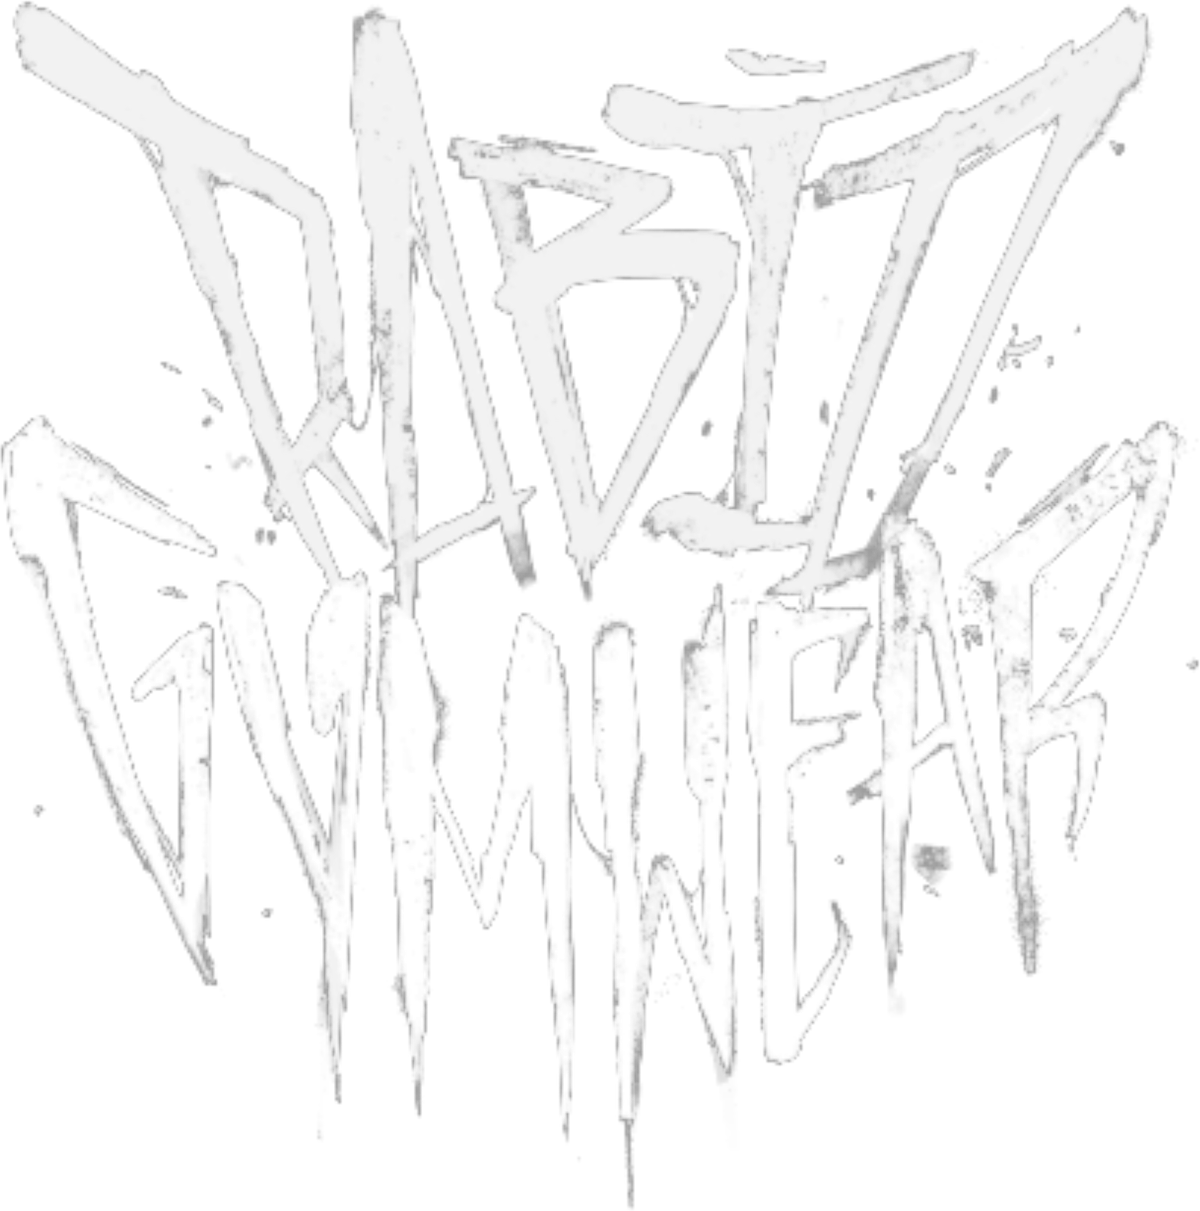
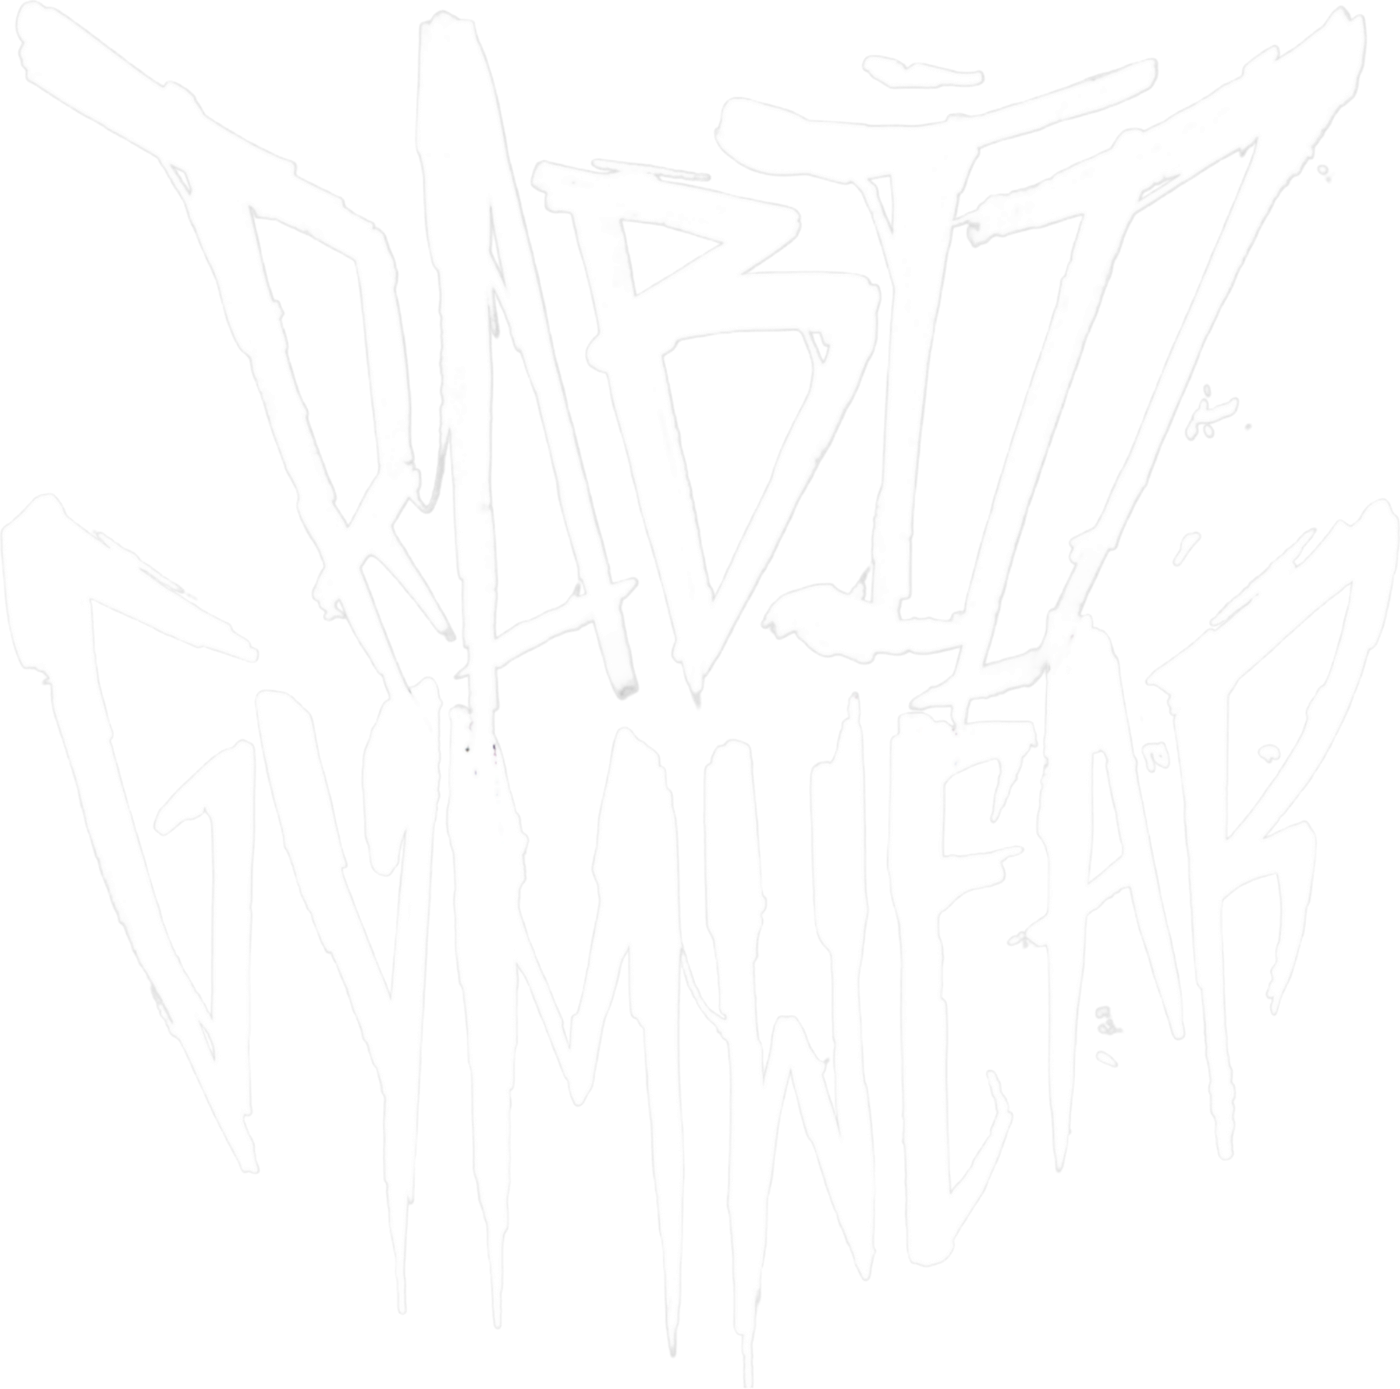
Replace the wordmark with the clean-edged master
The supplied file already carried a proper alpha channel, so it needed
trimming to its ink rather than keying: the layout should be driven by
the artwork, not by whatever canvas it was exported on. Capped at 1400px
on the long edge, since nothing paints it above a few hundred points.

The trimmed ink is 1400x1389 against the old 1200x1211, so the heights
that go with it move a point or two to match. They are set explicitly
rather than derived, because an Image takes the intrinsic pixel height of
its source the moment one is missing.

Claude-Session: https://claude.ai/code/session_01FQXYACtHqGQwwtKji7kPMY

diff --git a/src/components/BrandMark.tsx b/src/components/BrandMark.tsx
@@ -59,8 +59,8 @@ const styles = StyleSheet.create({
   container: { alignItems: 'center' },
 
   // Sized by height so the mark's own proportions drive the layout.
-  heroMark: { width: 208, height: 210 },
-  compactMark: { width: 84, height: 85 },
+  heroMark: { width: 208, height: 206 },
+  compactMark: { width: 84, height: 83 },
 
   heroSub: {
     flexDirection: 'row',

diff --git a/app/enter.tsx b/app/enter.tsx
@@ -89,7 +89,7 @@ const styles = StyleSheet.create({
   gap: { flex: 1 },
 
   mark: { alignItems: 'center' },
-  wordmark: { width: 104, height: 105 },
+  wordmark: { width: 104, height: 103 },
 
   // The figure sits over the advisory rather than beside it.
   //
